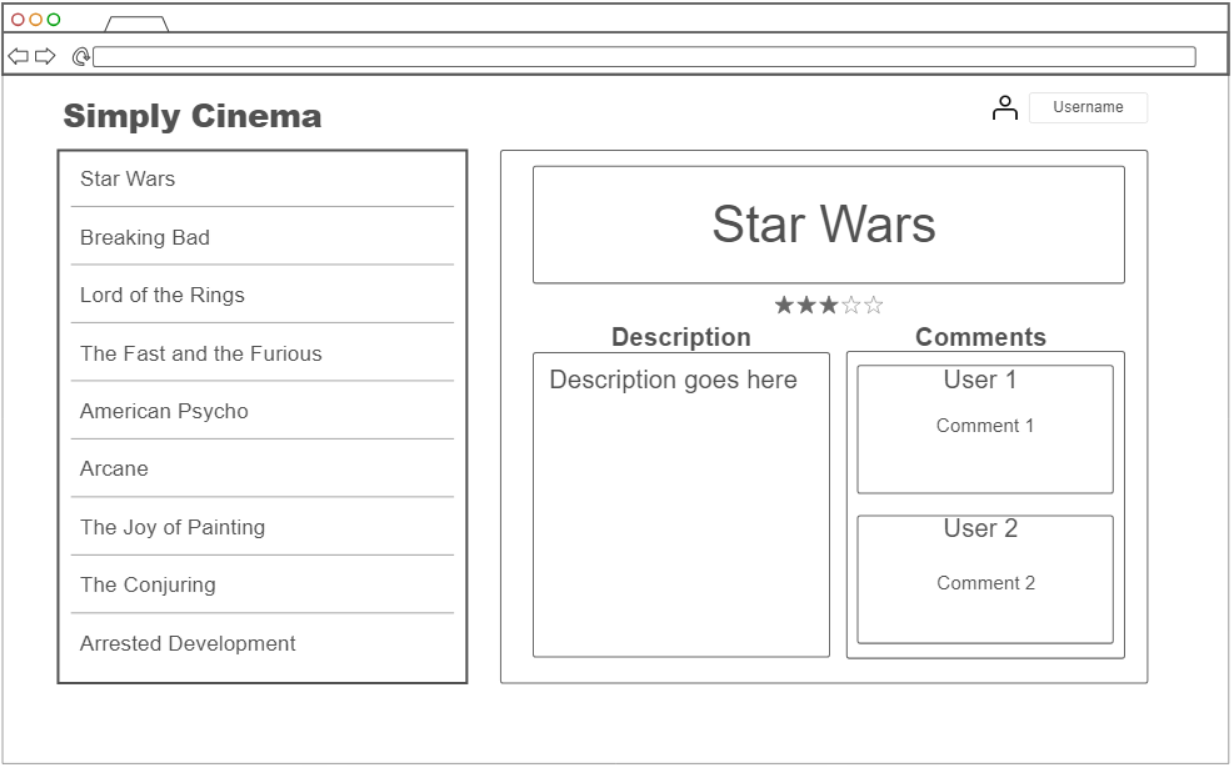
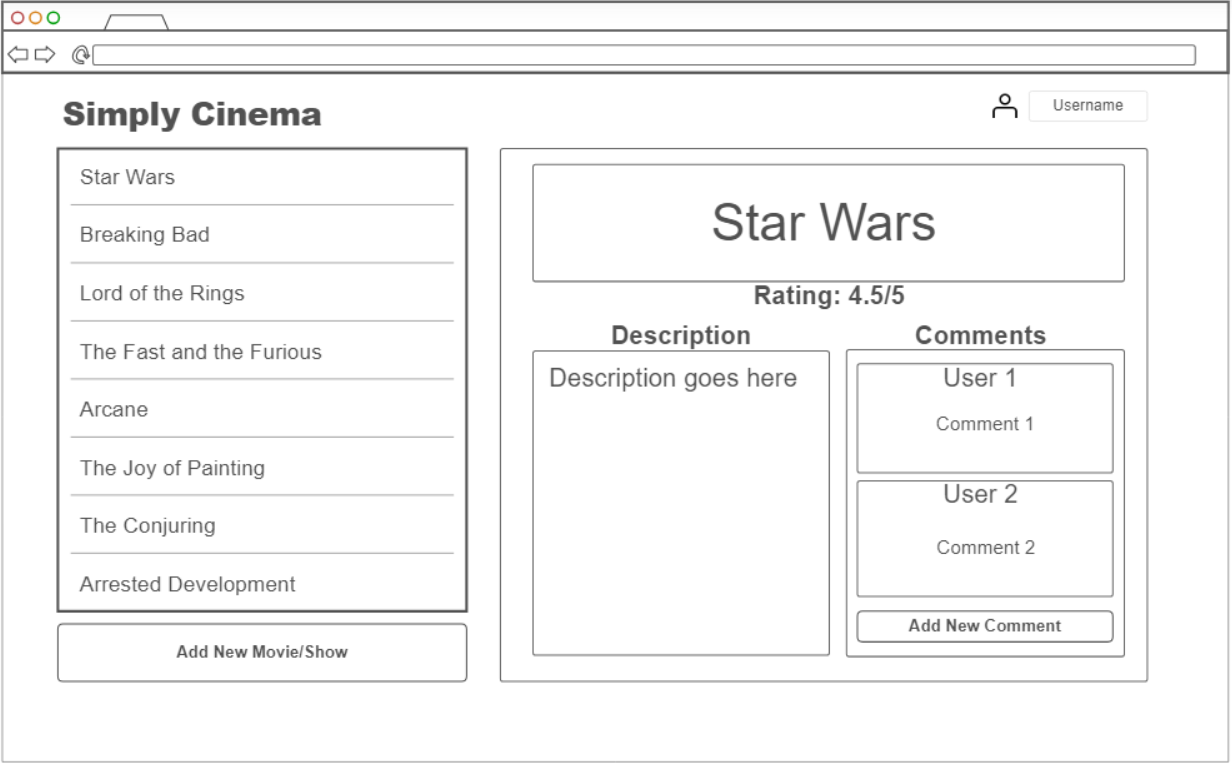
Added key features and technology explanations to readme, and updated the web page design rough drafts.

diff --git a/README.md b/README.md
@@ -14,3 +14,31 @@ new recommended shows to watch, or warn your friends about a movie that's not wo
 ### Proof-of-Concept Design ###
 ![Login Page](loginPage.png)
 ![Home Page](homePage.png)
+
+### Key Features ###
+- Secure login over HTTPS
+- Display of all movies/shows that have been added to the database
+- Ability to select a movie/show and see the description, rating, and comments
+- Ability to add a new movie/show and description to the list
+- Ability to add a new comment and rating to a movie/show
+- New movies/shows are added to other user's devices in real time
+- All movies/shows added to the list are saved to the database
+
+### Technologies ###
+I am going to use the required technologies in the following ways:
+
+- **HTML:** Uses correct HTML structure with two HTML pages. One is used for loging in/registering, while the other is used for creating movie/
+show descriptions and rating/commenting on them.
+- **CSS:** Adaptable to different screen sizes with a simple, minimal design. Good use of color, contrast, and whitespace.
+- **JavaScript:** Provides login/registration, movie/show selection, creating movie/show descriptions, creating movie/show comments and 
+ratings, backend endpoint calls.
+- **React:** Single page application, with views componentized and dynamic updates in response to user actions.
+- **Web Service:** Backend service with endpoints for:
+  - Retrieving movie/show list
+  - Retrieving individual movie/show
+  - Retrieving comment and rating list for movie/show
+  - Retrieve a random anime quote from https://github.com/Animechan-API/animechan
+  - Creating new movie/show
+  - Creating new comment and rating
+- **DB/Login:** Store users, movie/show descriptions, and movie/show comments/ratings in database. Register and login users. Credentials securely stored in database. Cannot access the media/comments page unless logged in.
+- **WebSocket:** Whenever a new movie/show or comment and rating is added, all other users are updated with that information.
